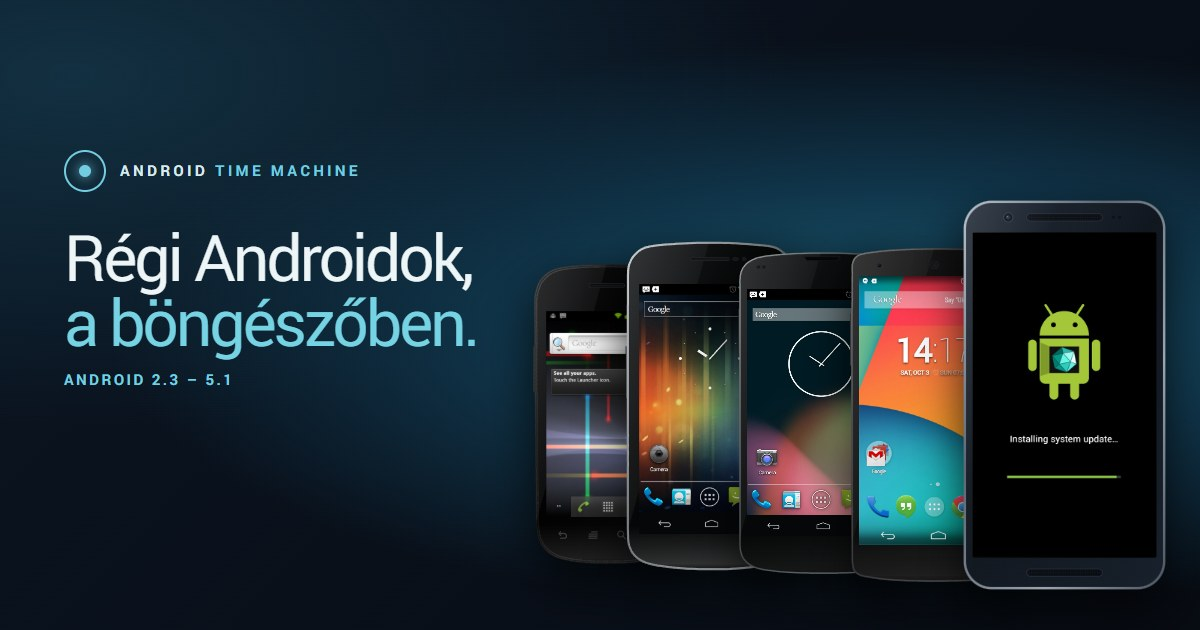
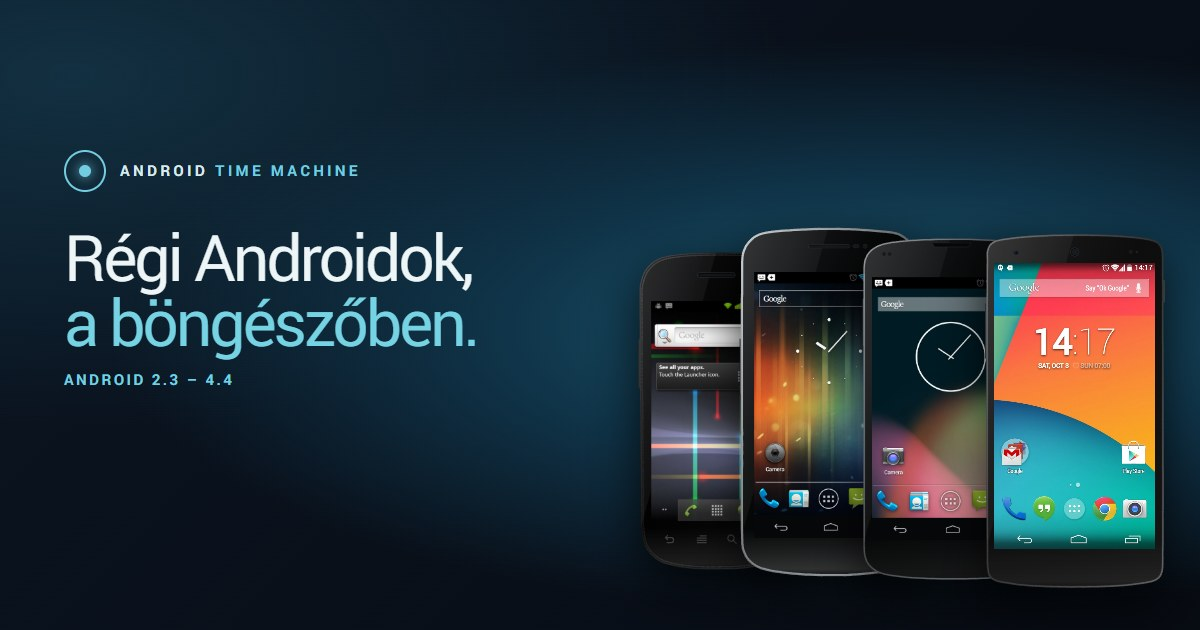
OG cover without the Nexus 6 for now: four phones, Android 2.3 – 4.4

Changed region(s): [[0.4317, 0.3016, 0.9867, 0.9349]]

diff --git a/docs/og-cover.html b/docs/og-cover.html
@@ -24,22 +24,21 @@ h1 strong{display:block;font-weight:400;color:#75d3e3}
 <div class="text">
   <div class="brand"><i></i><div>ANDROID <span>TIME MACHINE</span></div></div>
   <h1>Régi Androidok,<strong>a böngészőben.</strong></h1>
-  <div class="range">ANDROID 2.3 – 5.1</div>
+  <div class="range">ANDROID 2.3 – 4.4</div>
 </div>
 <div class="phones" id="phones"></div>
 <script>
-const mm = 2.45;
+const mm = 2.6;
 const phones = [
   ['2.3.6', 'device-nexus-s.svg', 336 / 675.33, 123.9, [15.89, 15.99, 8.93, 8.93], 'landing-home.jpg'],
   ['4.0.4', 'device-galaxy-nexus.svg', 368.15 / 721.32, 135.5, [13.15, 11.44, 8.21, 8.67], 'landing-home.jpg'],
   ['4.3', 'device-nexus-4.svg', 374.77 / 722.2, 133.9, [11.86, 12.68, 6.37, 6.37], 'landing-home.jpg'],
-  ['4.4.4', 'device-nexus-5.svg', 370.57 / 728.24, 137.84, [8.83, 11.53, 5.94, 6.02], 'landing-home.jpg'],
-  ['5.1.1', 'device-nexus-6.svg', 332 / 637.2, 159.3, [8.6, 8.6, 5.3, 5.3], 'landing-home.jpg']
+  ['4.4.4', 'device-nexus-5.svg', 370.57 / 728.24, 137.84, [8.83, 11.53, 5.94, 6.02], 'landing-home.jpg']
 ];
 const root = document.getElementById('phones');
 phones.forEach(([v, frame, ratio, height, [t, b, l, r], shot], i) => {
   const h = height * mm, w = h * ratio, el = document.createElement('div');
-  el.className = 'phone'; el.style.cssText = `width:${w}px;height:${h}px;z-index:${10 + i};margin-bottom:${(4 - i) * 6}px`;
+  el.className = 'phone'; el.style.cssText = `width:${w}px;height:${h}px;z-index:${10 + i};margin-bottom:${(3 - i) * 6}px`;
   el.innerHTML = `<div class="shot" style="top:${t}%;bottom:${b}%;left:${l}%;right:${r}%;background-image:url('../versions/${v}/assets/${shot}')"></div><img class="frame" src="../versions/${v}/assets/${frame}" alt="">`;
   root.append(el);
 });

diff --git a/versions/2.3.6/index.html b/versions/2.3.6/index.html
@@ -12,11 +12,11 @@
   <meta property="og:title" content="Android 2.3.6 Gingerbread – Nexus S szimulátor">
   <meta property="og:description" content="Érintőgombok az üveg alatt, csúszkás zárolóképernyő, a Menü gombbal nyíló opciópanelek, zöld állapotikonok és a zombi Gingerbread húsvéti tojás.">
   <meta property="og:url" content="https://android.levente.net/versions/2.3.6/">
-  <meta property="og:image" content="https://android.levente.net/assets/og-cover.jpg?v=1">
+  <meta property="og:image" content="https://android.levente.net/assets/og-cover.jpg?v=2">
   <meta property="og:image:type" content="image/jpeg">
   <meta property="og:image:width" content="1200">
   <meta property="og:image:height" content="630">
-  <meta property="og:image:alt" content="Öt Nexus telefon egymás mellett a saját Android-verziójával: Nexus S (2.3), Galaxy Nexus (4.0), Nexus 4 (4.3), Nexus 5 (4.4) és Nexus 6 (5.1), mellettük az Android Time Machine felirat.">
+  <meta property="og:image:alt" content="Négy Nexus telefon egymás mellett a saját Android-verziójával: Nexus S (2.3), Galaxy Nexus (4.0), Nexus 4 (4.3) és Nexus 5 (4.4), mellettük az Android Time Machine felirat.">
   <meta name="twitter:card" content="summary_large_image">
   <link rel="icon" type="image/svg+xml" href="../../favicon.svg">
   <link rel="stylesheet" href="style.css?v=40">

diff --git a/index.html b/index.html
@@ -12,11 +12,11 @@
   <meta property="og:title" content="Android Time Machine – régi Androidok a böngészőben">
   <meta property="og:description" content="Android 2.3–4.4 a Nexus S-en, a Galaxy Nexuson, a Nexus 4-en és a Nexus 5-ön: kezdőképernyő, értesítések, beállítások és alkalmazások – telepítés nélkül.">
   <meta property="og:url" content="https://android.levente.net/">
-  <meta property="og:image" content="https://android.levente.net/assets/og-cover.jpg?v=1">
+  <meta property="og:image" content="https://android.levente.net/assets/og-cover.jpg?v=2">
   <meta property="og:image:type" content="image/jpeg">
   <meta property="og:image:width" content="1200">
   <meta property="og:image:height" content="630">
-  <meta property="og:image:alt" content="Öt Nexus telefon egymás mellett a saját Android-verziójával: Nexus S (2.3), Galaxy Nexus (4.0), Nexus 4 (4.3), Nexus 5 (4.4) és Nexus 6 (5.1), mellettük az Android Time Machine felirat.">
+  <meta property="og:image:alt" content="Négy Nexus telefon egymás mellett a saját Android-verziójával: Nexus S (2.3), Galaxy Nexus (4.0), Nexus 4 (4.3) és Nexus 5 (4.4), mellettük az Android Time Machine felirat.">
   <meta name="twitter:card" content="summary_large_image">
   <link rel="icon" type="image/svg+xml" href="favicon.svg">
   <link rel="stylesheet" href="styles.css?v=16">

diff --git a/versions/4.0.4/index.html b/versions/4.0.4/index.html
@@ -12,11 +12,11 @@
   <meta property="og:title" content="Android 4.0.4 Ice Cream Sandwich – Galaxy Nexus szimulátor">
   <meta property="og:description" content="Holo dizájn, képernyős navigációs gombok, mappák, kamera a zárolóképernyőről és a Nyandroid húsvéti tojás.">
   <meta property="og:url" content="https://android.levente.net/versions/4.0.4/">
-  <meta property="og:image" content="https://android.levente.net/assets/og-cover.jpg?v=1">
+  <meta property="og:image" content="https://android.levente.net/assets/og-cover.jpg?v=2">
   <meta property="og:image:type" content="image/jpeg">
   <meta property="og:image:width" content="1200">
   <meta property="og:image:height" content="630">
-  <meta property="og:image:alt" content="Öt Nexus telefon egymás mellett a saját Android-verziójával: Nexus S (2.3), Galaxy Nexus (4.0), Nexus 4 (4.3), Nexus 5 (4.4) és Nexus 6 (5.1), mellettük az Android Time Machine felirat.">
+  <meta property="og:image:alt" content="Négy Nexus telefon egymás mellett a saját Android-verziójával: Nexus S (2.3), Galaxy Nexus (4.0), Nexus 4 (4.3) és Nexus 5 (4.4), mellettük az Android Time Machine felirat.">
   <meta name="twitter:card" content="summary_large_image">
   <link rel="icon" type="image/svg+xml" href="../../favicon.svg">
   <link rel="stylesheet" href="style.css?v=40">

diff --git a/versions/5.1.1/index.html b/versions/5.1.1/index.html
@@ -12,11 +12,11 @@
   <meta property="og:title" content="Android 5.1.1 Lollipop – Nexus 6 (készülőben)">
   <meta property="og:description" content="Material Design a Nexus 6-on: új értesítési panel, felugró értesítések, Áttekintés-kártyák és Smart Lock. Hamarosan.">
   <meta property="og:url" content="https://android.levente.net/versions/5.1.1/">
-  <meta property="og:image" content="https://android.levente.net/assets/og-cover.jpg?v=1">
+  <meta property="og:image" content="https://android.levente.net/assets/og-cover.jpg?v=2">
   <meta property="og:image:type" content="image/jpeg">
   <meta property="og:image:width" content="1200">
   <meta property="og:image:height" content="630">
-  <meta property="og:image:alt" content="Öt Nexus telefon egymás mellett a saját Android-verziójával: Nexus S (2.3), Galaxy Nexus (4.0), Nexus 4 (4.3), Nexus 5 (4.4) és Nexus 6 (5.1), mellettük az Android Time Machine felirat.">
+  <meta property="og:image:alt" content="Négy Nexus telefon egymás mellett a saját Android-verziójával: Nexus S (2.3), Galaxy Nexus (4.0), Nexus 4 (4.3) és Nexus 5 (4.4), mellettük az Android Time Machine felirat.">
   <meta name="twitter:card" content="summary_large_image">
   <link rel="icon" type="image/svg+xml" href="../../favicon.svg">
   <link rel="stylesheet" href="style.css?v=1">

diff --git a/versions/4.3/index.html b/versions/4.3/index.html
@@ -12,11 +12,11 @@
   <meta property="og:title" content="Android 4.3 Jelly Bean – Nexus 4 szimulátor">
   <meta property="og:description" content="Kinyitható értesítések, gyorsbeállítások, widgetek a zárolóképernyőn, Daydream és a BeanBag húsvéti tojás.">
   <meta property="og:url" content="https://android.levente.net/versions/4.3/">
-  <meta property="og:image" content="https://android.levente.net/assets/og-cover.jpg?v=1">
+  <meta property="og:image" content="https://android.levente.net/assets/og-cover.jpg?v=2">
   <meta property="og:image:type" content="image/jpeg">
   <meta property="og:image:width" content="1200">
   <meta property="og:image:height" content="630">
-  <meta property="og:image:alt" content="Öt Nexus telefon egymás mellett a saját Android-verziójával: Nexus S (2.3), Galaxy Nexus (4.0), Nexus 4 (4.3), Nexus 5 (4.4) és Nexus 6 (5.1), mellettük az Android Time Machine felirat.">
+  <meta property="og:image:alt" content="Négy Nexus telefon egymás mellett a saját Android-verziójával: Nexus S (2.3), Galaxy Nexus (4.0), Nexus 4 (4.3) és Nexus 5 (4.4), mellettük az Android Time Machine felirat.">
   <meta name="twitter:card" content="summary_large_image">
   <link rel="icon" type="image/svg+xml" href="../../favicon.svg">
   <link rel="stylesheet" href="style.css?v=16">

diff --git a/versions/4.4.4/index.html b/versions/4.4.4/index.html
@@ -12,11 +12,11 @@
   <meta property="og:title" content="Android 4.4.4 KitKat – Nexus 5 szimulátor">
   <meta property="og:description" content="Google Now Launcher, Google Now, Hangouts, Chrome, áttetsző rendszersávok és a Dessert Case húsvéti tojás.">
   <meta property="og:url" content="https://android.levente.net/versions/4.4.4/">
-  <meta property="og:image" content="https://android.levente.net/assets/og-cover.jpg?v=1">
+  <meta property="og:image" content="https://android.levente.net/assets/og-cover.jpg?v=2">
   <meta property="og:image:type" content="image/jpeg">
   <meta property="og:image:width" content="1200">
   <meta property="og:image:height" content="630">
-  <meta property="og:image:alt" content="Öt Nexus telefon egymás mellett a saját Android-verziójával: Nexus S (2.3), Galaxy Nexus (4.0), Nexus 4 (4.3), Nexus 5 (4.4) és Nexus 6 (5.1), mellettük az Android Time Machine felirat.">
+  <meta property="og:image:alt" content="Négy Nexus telefon egymás mellett a saját Android-verziójával: Nexus S (2.3), Galaxy Nexus (4.0), Nexus 4 (4.3) és Nexus 5 (4.4), mellettük az Android Time Machine felirat.">
   <meta name="twitter:card" content="summary_large_image">
   <link rel="icon" type="image/svg+xml" href="../../favicon.svg">
   <link rel="stylesheet" href="style.css?v=19">
